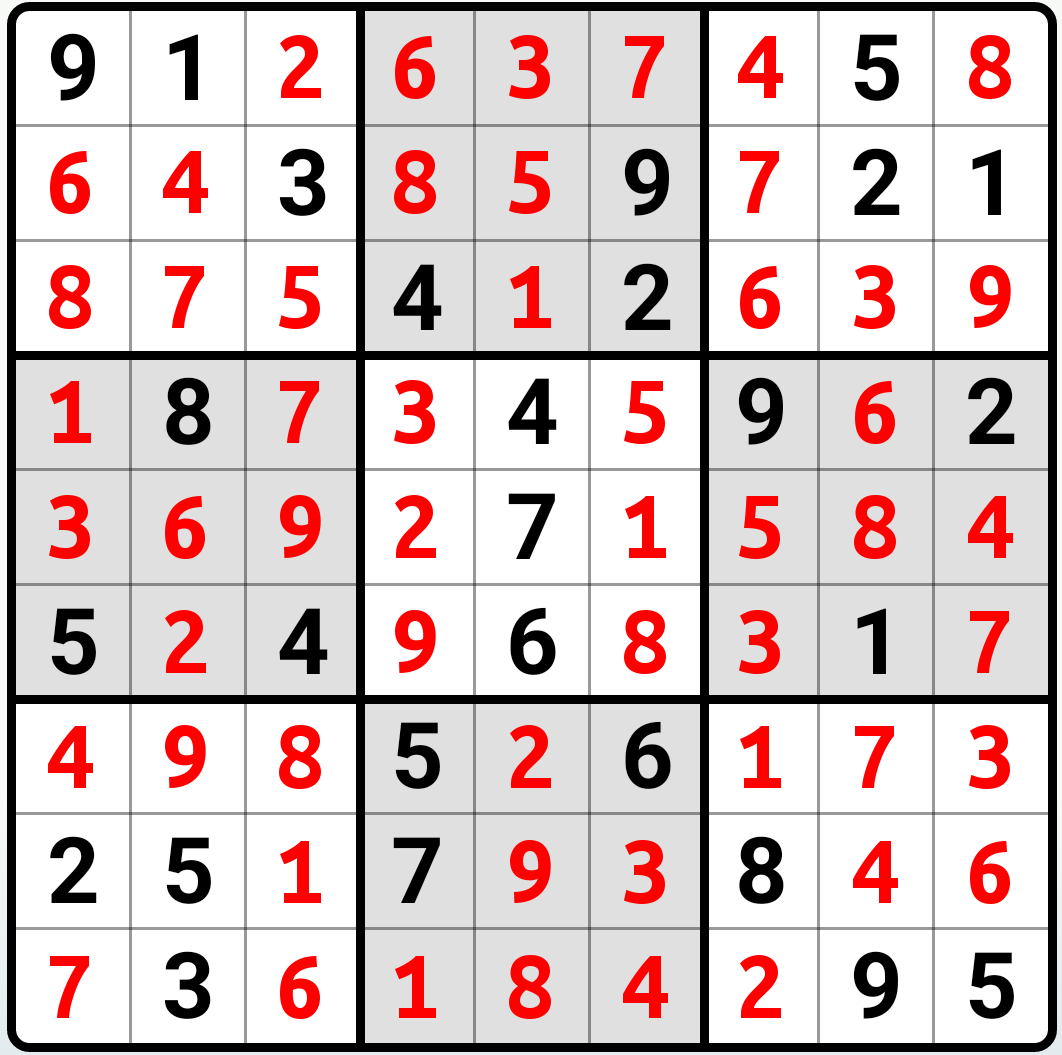
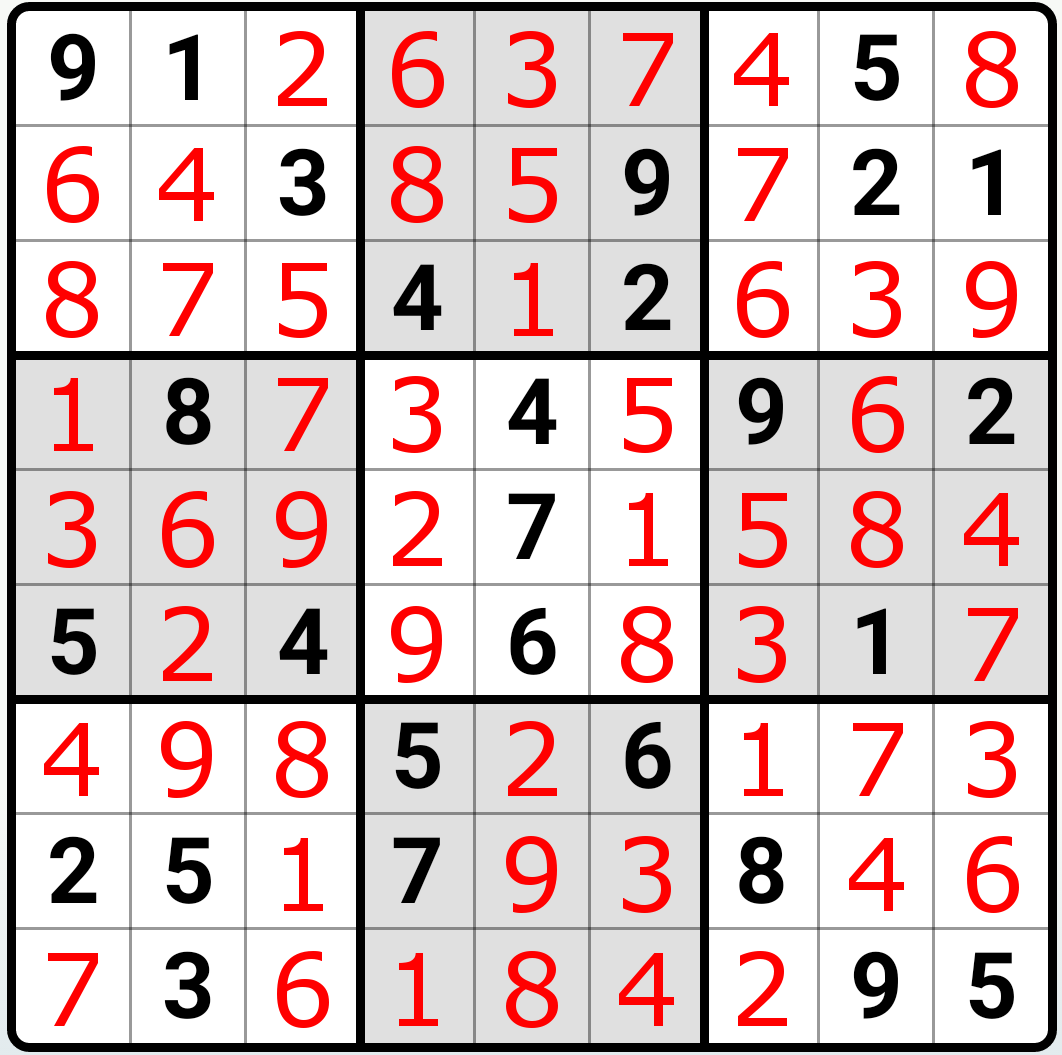
Sudoku solver font size update

diff --git a/sudokuOCRSolver/answerGeneration.py b/sudokuOCRSolver/answerGeneration.py
@@ -9,16 +9,16 @@ def generateAnswer(image, board, original):
 	img = Image.open(image)
 
 	# mac
-	# myfont = ImageFont.truetype('/Library/Fonts/verdana.ttf', 100)
+	myfont = ImageFont.truetype('/Library/Fonts/verdana.ttf', 100)
 	
 	# ubuntu
-	myfont = ImageFont.truetype('/usr/share/fonts/truetype/ubuntu-font-family/UbuntuMono-B.ttf', 100)
+	# myfont = ImageFont.truetype('/usr/share/fonts/truetype/ubuntu-font-family/UbuntuMono-B.ttf', 100)
 
 	for i in range(9):
 		for j in range(9):
 			# if the original sudoku board is 0, update the 
 			if original[i][j] == 0:
-				ImageDraw.Draw(img).text((45 + j * 115, 15 + 115 * i), str(board[i][j]), font = myfont, fill = 'red')
+				ImageDraw.Draw(img).text((40 + j * 115, 5 + 115 * i), str(board[i][j]), font = myfont, fill = 'red')
 
 	# add 'solve_' to the original image file name and save it to folder Answer
 	newImg = './Answers/solved_' + image.split('/')[-1]

diff --git a/express/auexpressQuery.py b/express/auexpressQuery.py
@@ -33,8 +33,6 @@ def query(trackingID):
 # trackingIDs = [770001634144, 770001634143, 660003228335, 660003228567, 660003228297, 660003228507]
 trackingIDs = [770001634290, 770001634292, 770001634407, 770001634409, 770001634410, 770001634411]
 
-trackingIDs = [770001634410]
-
 # for trackingID in trackingIDs:
 # 	query(trackingID)
 

diff --git a/sudokuOCRSolver/sudokuOCRSolver.py b/sudokuOCRSolver/sudokuOCRSolver.py
@@ -22,7 +22,7 @@ images = glob.glob('./Questions/*.png')
 # sort file names
 images.sort()
 
-for image in images: # solve each question
+for image in images[:1]: # solve each question
 	
 	# obtain output file
 	output = imageProcessing.generateOutput(image)
